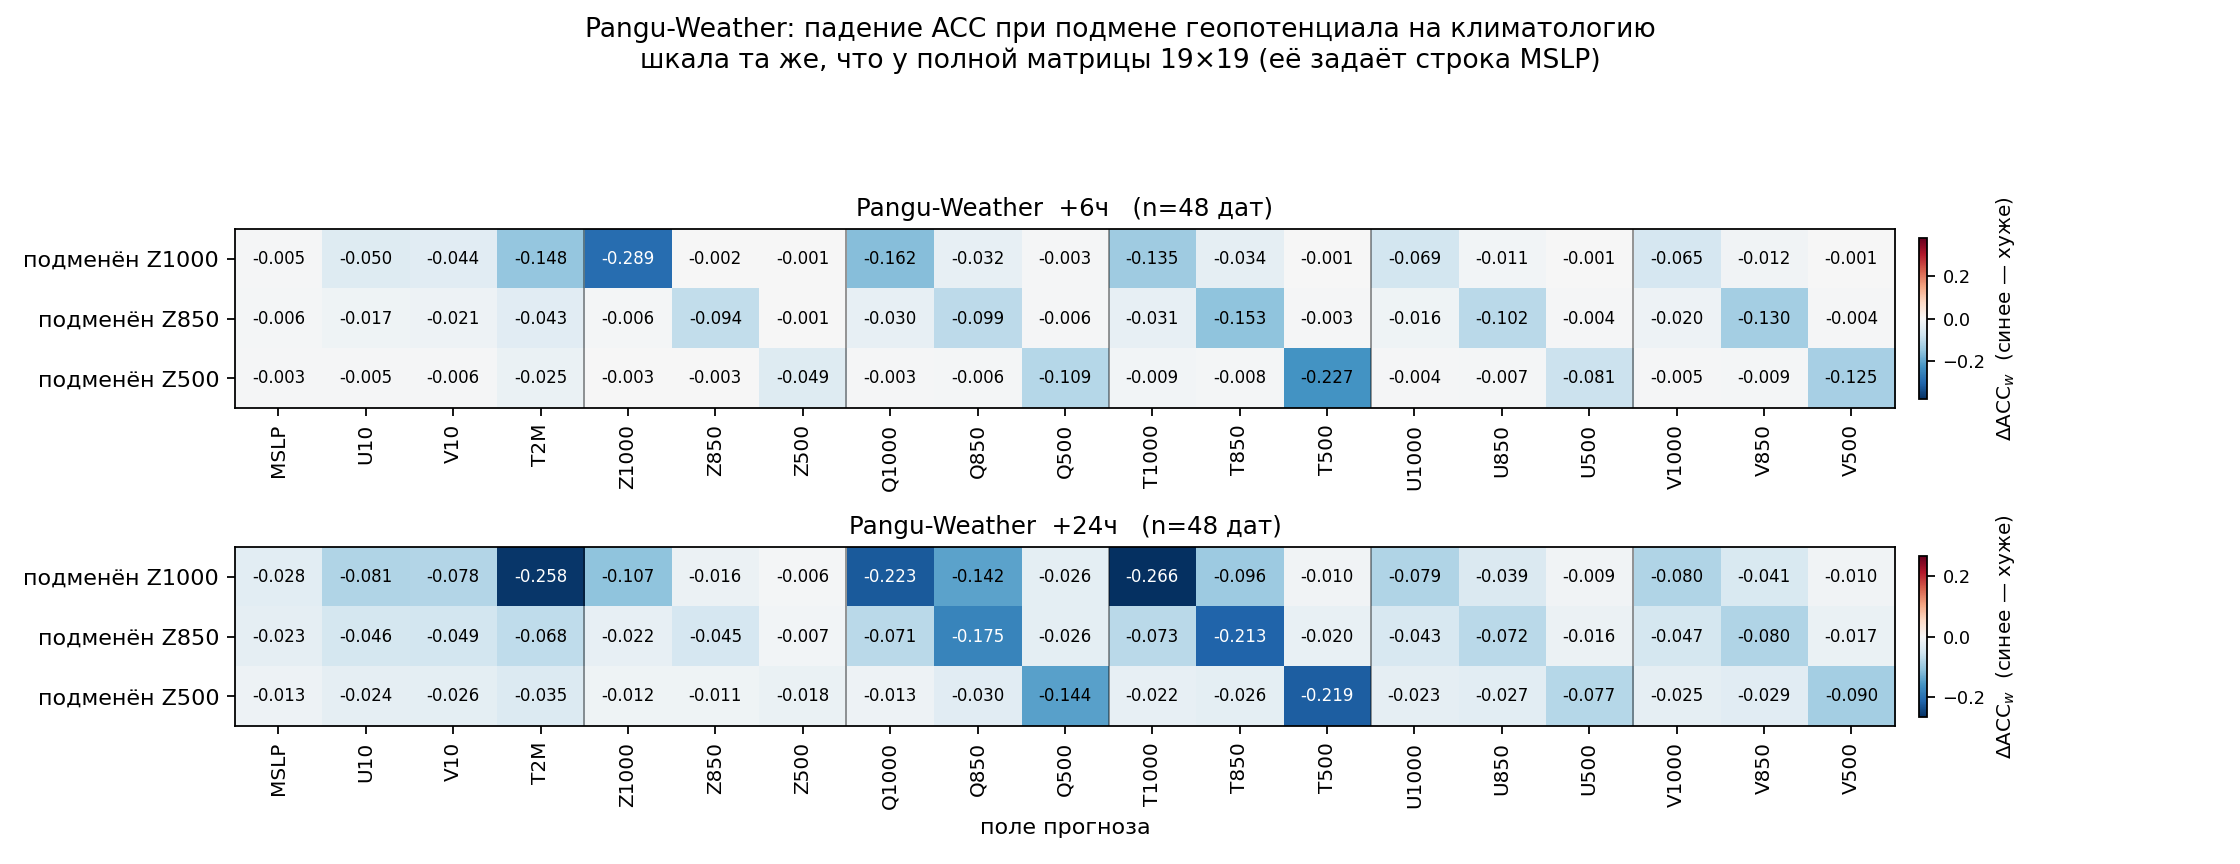
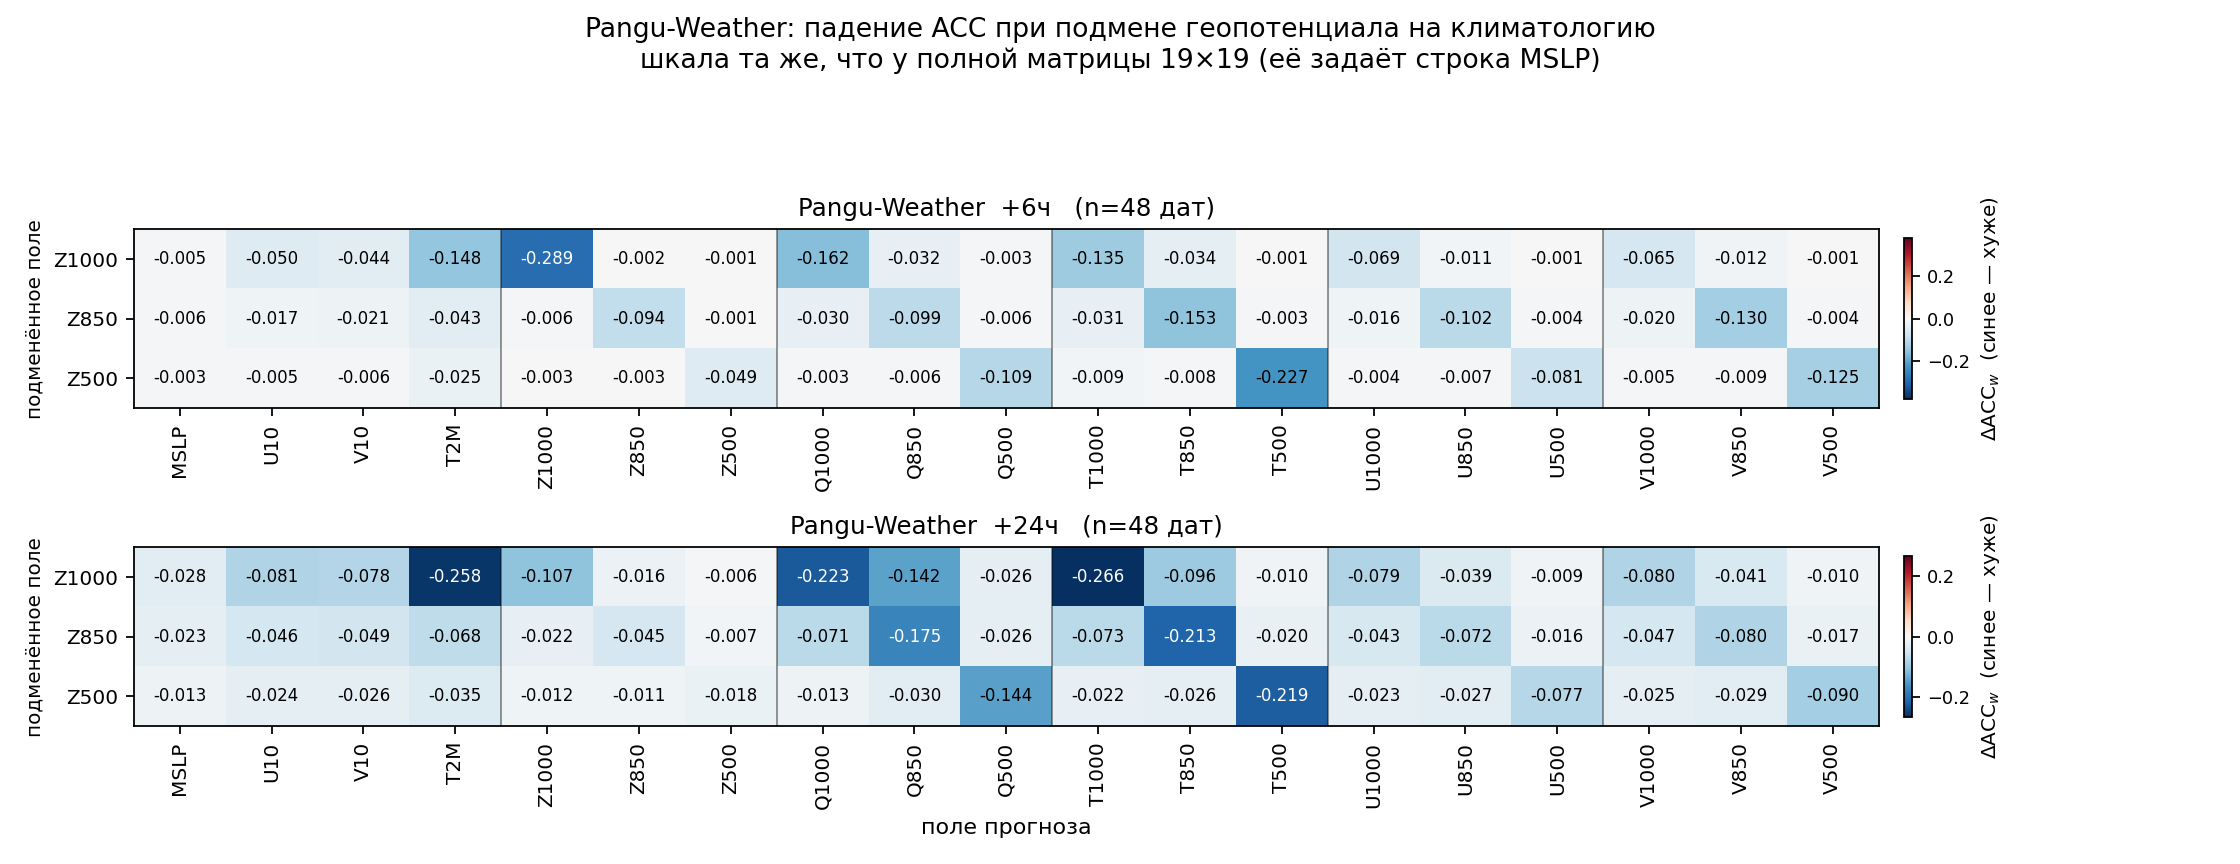
acc strip: plain field names on the y axis, as in the parent matrix

diff --git a/plots/plot_acc_strip.py b/plots/plot_acc_strip.py
@@ -49,7 +49,8 @@ def draw(ax, mat, title, v):
     im = ax.imshow(mat, cmap='RdBu_r', vmin=-v, vmax=v, aspect='auto')
     ax.set_xticks(range(len(NAMES))); ax.set_xticklabels(NAMES, rotation=90, fontsize=9)
     ax.set_yticks(range(len(ROWS)))
-    ax.set_yticklabels([f'подменён {r}' for r in ROWS], fontsize=10)
+    ax.set_yticklabels(ROWS, fontsize=9)          # plain names, as in the parent matrix
+    ax.set_ylabel('подменённое поле', fontsize=9)
     for e in GROUP_EDGES:
         ax.axvline(e - 0.5, color='k', lw=0.7, alpha=0.5)
     for i, r in enumerate(ROWS):
